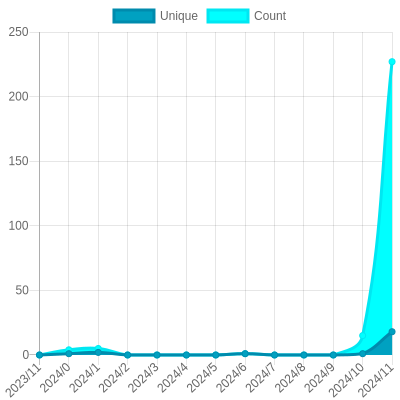
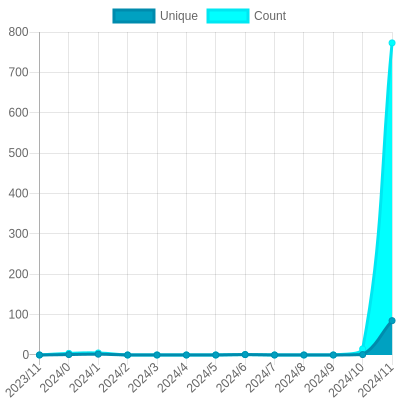
Updated number of views of repositories

diff --git a/readme/441395757/year.md b/readme/441395757/year.md
@@ -23,10 +23,10 @@
 			<code>2023/12/1</code>
 		</td>
 		<td>
-			<code>18</code>
+			<code>85</code>
 		</td>
 		<td>
-			<code>227</code>
+			<code>773</code>
 		</td>
 	</tr>
 	<tr>
@@ -164,7 +164,7 @@
 </table>
 
 </details>
-<small><i>Last updated on 2023/12/3 12:59 AM UTC</i></small>
+<small><i>Last updated on 2023/12/3 10:00 AM UTC</i></small>
 
 ## ✂Copy and 📋 Paste
 ### SVG Badge

diff --git a/README.md b/README.md
@@ -229,7 +229,7 @@ The project created and maintained by [gayanvoice](https://github.com/gayanvoice
 	</tr>
 </table>
 
-<small><i>Last updated on 2023/12/3 1:00 AM UTC</i></small>
+<small><i>Last updated on 2023/12/3 10:01 AM UTC</i></small>
 
 ## ✂Copy and 📋 Paste
 ### Total Views Badge

diff --git a/readme/434670985/year.md b/readme/434670985/year.md
@@ -164,7 +164,7 @@
 </table>
 
 </details>
-<small><i>Last updated on 2023/12/3 12:59 AM UTC</i></small>
+<small><i>Last updated on 2023/12/3 10:00 AM UTC</i></small>
 
 ## ✂Copy and 📋 Paste
 ### SVG Badge

diff --git a/readme/507267464/year.md b/readme/507267464/year.md
@@ -164,7 +164,7 @@
 </table>
 
 </details>
-<small><i>Last updated on 2023/12/3 12:59 AM UTC</i></small>
+<small><i>Last updated on 2023/12/3 10:00 AM UTC</i></small>
 
 ## ✂Copy and 📋 Paste
 ### SVG Badge

diff --git a/readme/526719056/year.md b/readme/526719056/year.md
@@ -164,7 +164,7 @@
 </table>
 
 </details>
-<small><i>Last updated on 2023/12/3 12:59 AM UTC</i></small>
+<small><i>Last updated on 2023/12/3 10:00 AM UTC</i></small>
 
 ## ✂Copy and 📋 Paste
 ### SVG Badge

diff --git a/readme/527266453/year.md b/readme/527266453/year.md
@@ -164,7 +164,7 @@
 </table>
 
 </details>
-<small><i>Last updated on 2023/12/3 12:59 AM UTC</i></small>
+<small><i>Last updated on 2023/12/3 10:00 AM UTC</i></small>
 
 ## ✂Copy and 📋 Paste
 ### SVG Badge

diff --git a/readme/556226503/year.md b/readme/556226503/year.md
@@ -164,7 +164,7 @@
 </table>
 
 </details>
-<small><i>Last updated on 2023/12/3 12:59 AM UTC</i></small>
+<small><i>Last updated on 2023/12/3 10:00 AM UTC</i></small>
 
 ## ✂Copy and 📋 Paste
 ### SVG Badge

diff --git a/readme/581472742/year.md b/readme/581472742/year.md
@@ -164,7 +164,7 @@
 </table>
 
 </details>
-<small><i>Last updated on 2023/12/3 12:59 AM UTC</i></small>
+<small><i>Last updated on 2023/12/3 10:00 AM UTC</i></small>
 
 ## ✂Copy and 📋 Paste
 ### SVG Badge

diff --git a/readme/316180162/year.md b/readme/316180162/year.md
@@ -164,7 +164,7 @@
 </table>
 
 </details>
-<small><i>Last updated on 2023/12/3 1:00 AM UTC</i></small>
+<small><i>Last updated on 2023/12/3 10:01 AM UTC</i></small>
 
 ## ✂Copy and 📋 Paste
 ### SVG Badge

diff --git a/readme/362981091/year.md b/readme/362981091/year.md
@@ -164,7 +164,7 @@
 </table>
 
 </details>
-<small><i>Last updated on 2023/12/3 1:00 AM UTC</i></small>
+<small><i>Last updated on 2023/12/3 10:00 AM UTC</i></small>
 
 ## ✂Copy and 📋 Paste
 ### SVG Badge

diff --git a/readme/447688402/year.md b/readme/447688402/year.md
@@ -164,7 +164,7 @@
 </table>
 
 </details>
-<small><i>Last updated on 2023/12/3 1:00 AM UTC</i></small>
+<small><i>Last updated on 2023/12/3 10:01 AM UTC</i></small>
 
 ## ✂Copy and 📋 Paste
 ### SVG Badge

diff --git a/readme/546116981/year.md b/readme/546116981/year.md
@@ -164,7 +164,7 @@
 </table>
 
 </details>
-<small><i>Last updated on 2023/12/3 1:00 AM UTC</i></small>
+<small><i>Last updated on 2023/12/3 10:01 AM UTC</i></small>
 
 ## ✂Copy and 📋 Paste
 ### SVG Badge
